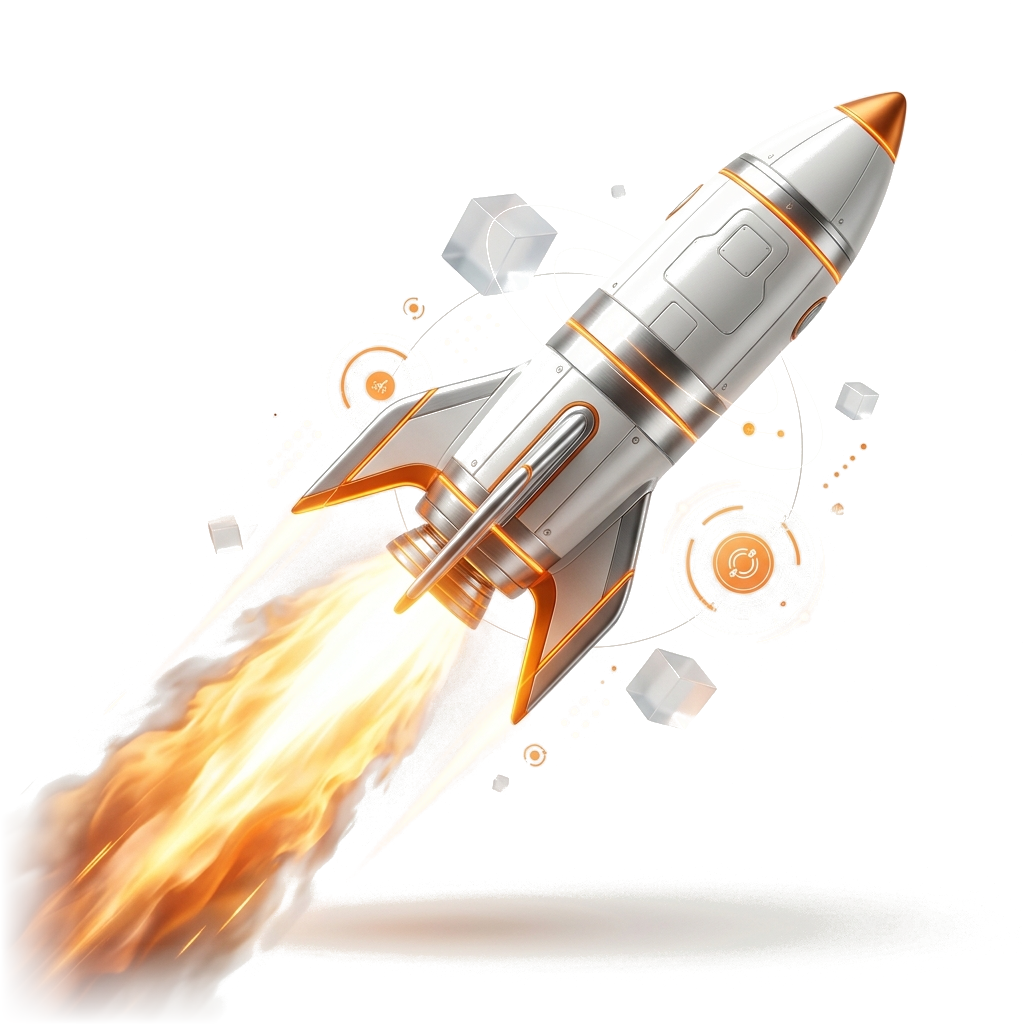
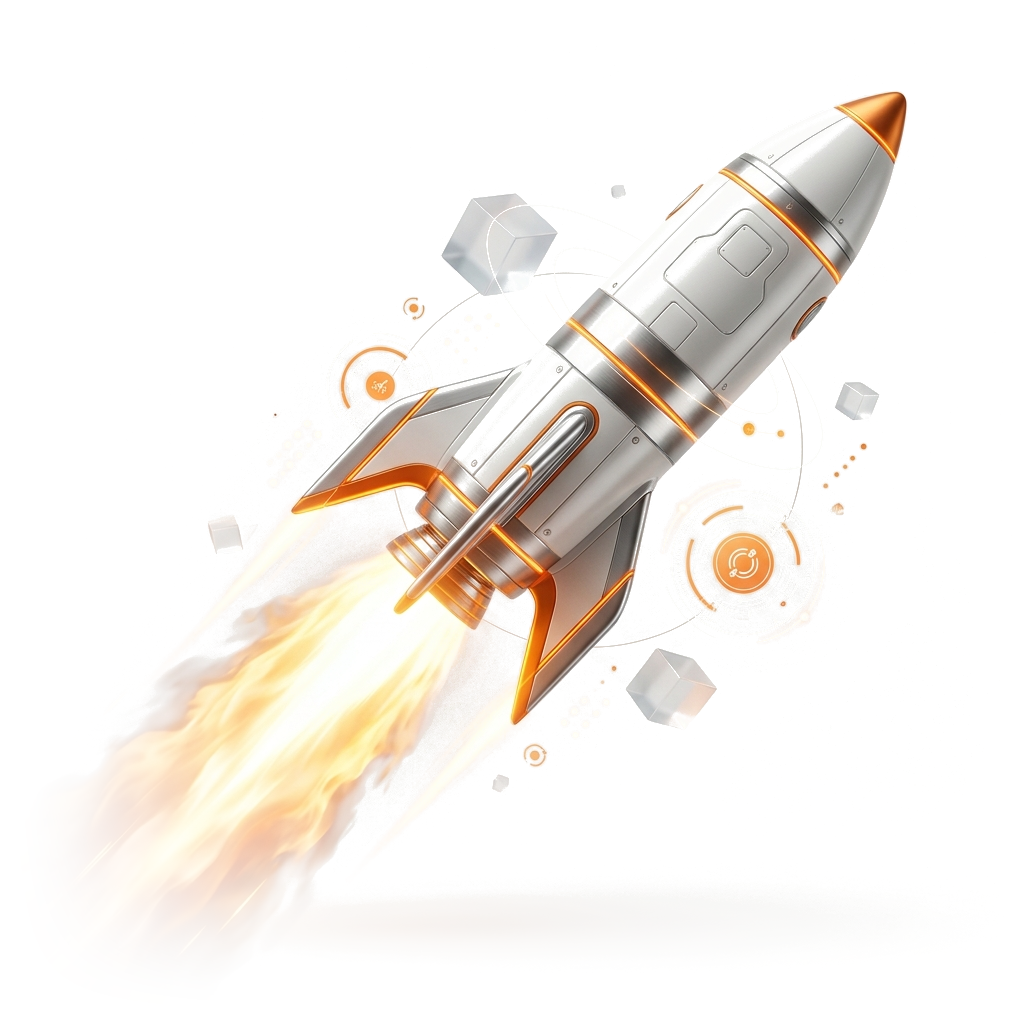
fix(showcase): eliminate smoke cut-out edge with smoothstep alpha feathering and CSS mask blend

Changed region(s): [[0.0, 0.625, 0.8125, 1.0]]

diff --git a/src/components/home/DigitalGrowthShowcaseSection.tsx b/src/components/home/DigitalGrowthShowcaseSection.tsx
@@ -108,7 +108,7 @@ export default function DigitalGrowthShowcaseSection() {
   return (
     <section
       id="digital-services-showcase"
-      className="relative py-20 sm:py-28 lg:py-32 font-framer bg-[#FAF9F5] text-black border-t border-black/10 overflow-hidden"
+      className="relative py-20 sm:py-28 lg:py-32 font-framer bg-white text-black border-t border-black/10 overflow-hidden"
       aria-labelledby="services-showcase-heading"
     >
       {/* Background Architectural Blueprint Grid */}
@@ -235,6 +235,10 @@ export default function DigitalGrowthShowcaseSection() {
                 {/* Animated Levitating Rocket Entity */}
                 <motion.div
                   className="relative z-10 w-full max-w-[340px] sm:max-w-[380px] flex items-center justify-center select-none pointer-events-none"
+                  style={{
+                    maskImage: 'radial-gradient(ellipse 90% 90% at 55% 45%, black 60%, transparent 100%)',
+                    WebkitMaskImage: 'radial-gradient(ellipse 90% 90% at 55% 45%, black 60%, transparent 100%)',
+                  }}
                   animate={{
                     y: [-8, 8, -8],
                     x: [-3, 3, -3],
